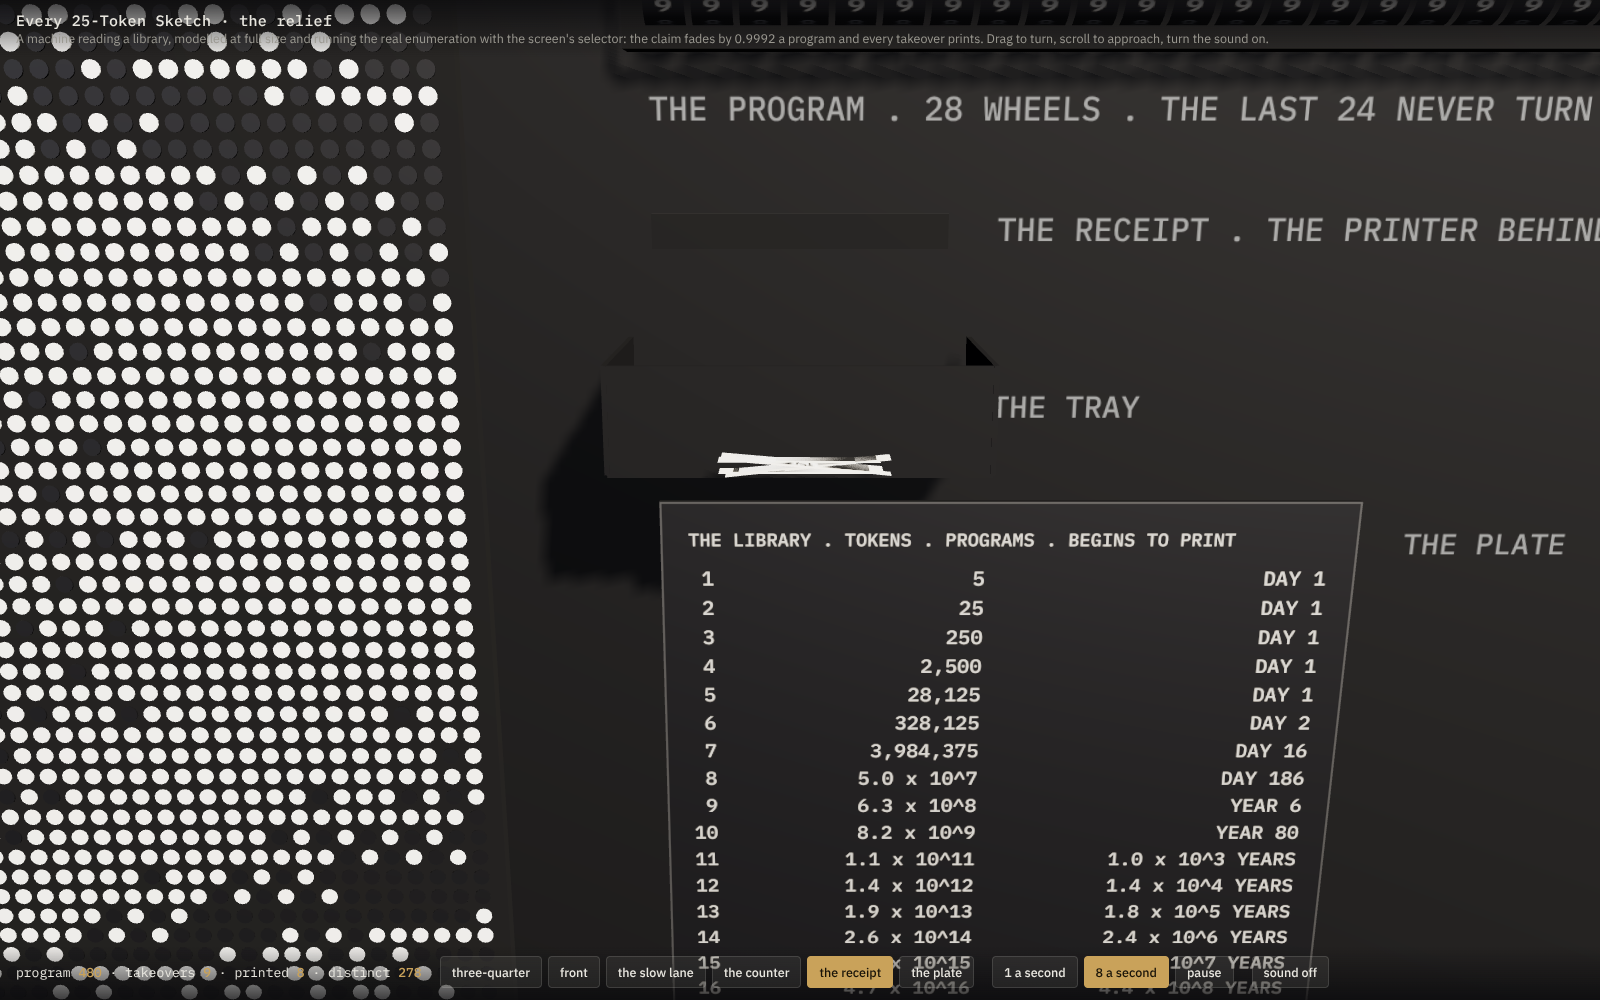
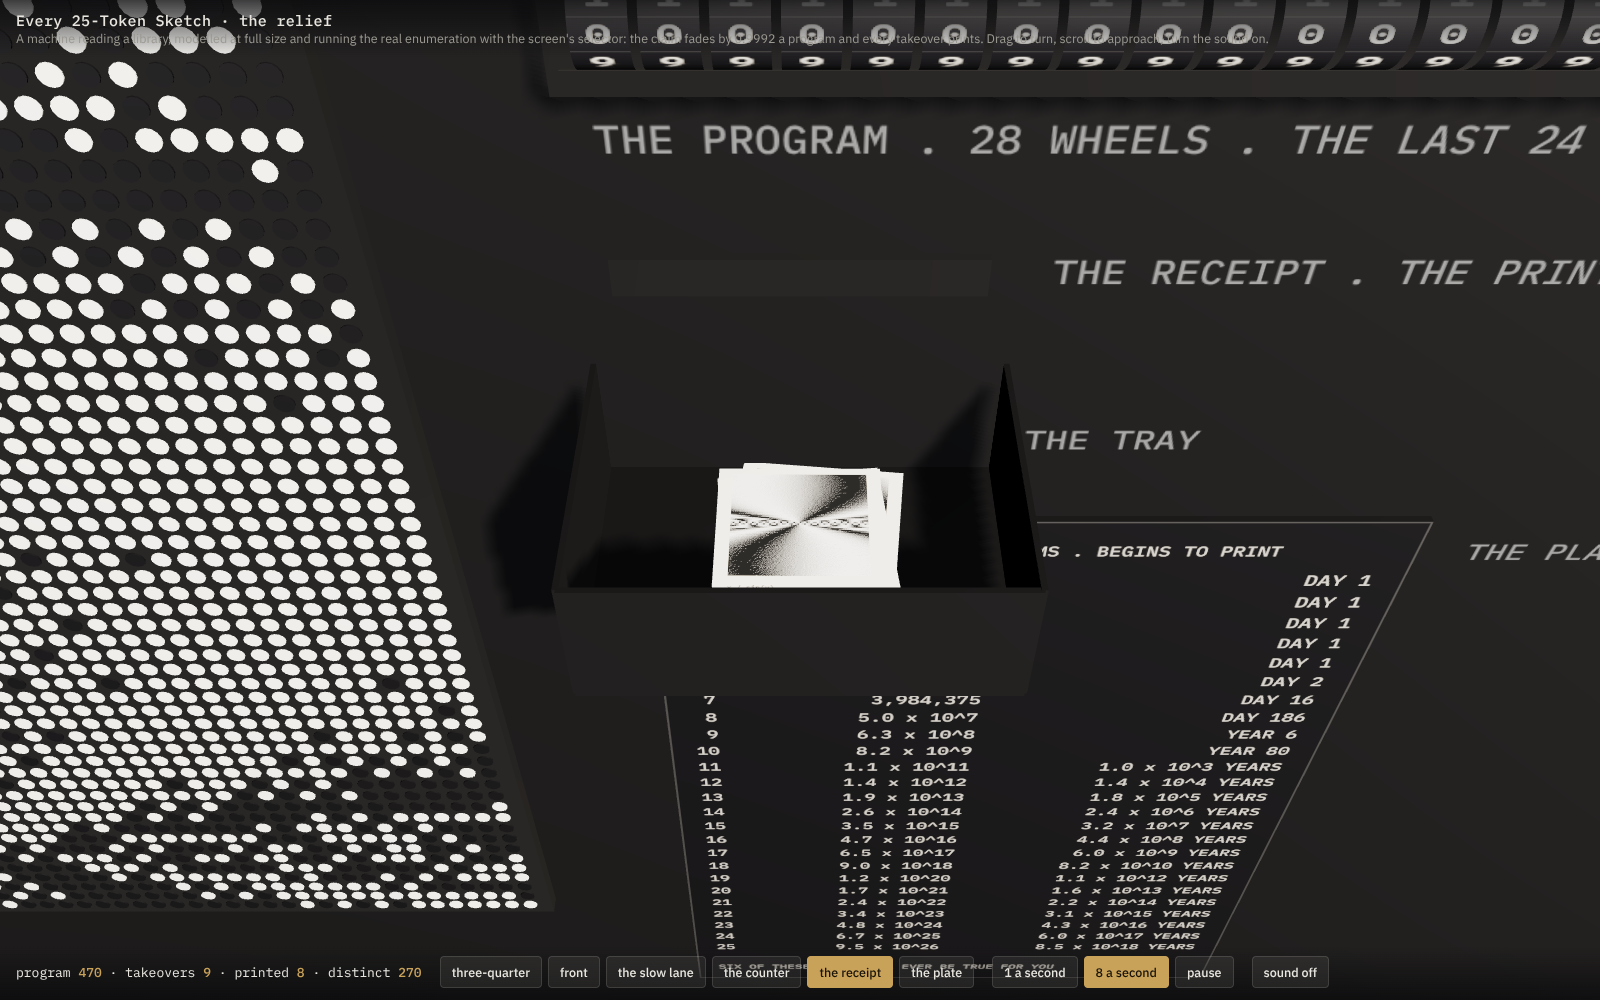
045 model: the ticket hangs as the printer feeds it and lands face up in a deeper tray
The tray is 140 × 100 × 50 mm, deep enough for a 90.75 mm ticket to lie flat. The ticket
leaves the slot first line first, so it hangs picture lowest; cut, it tips forward and lands
face up, picture toward whoever stands in front, each on the one before with a little yaw.
The receipt view looks down into the tray. DESIGN.md and BUILD.md carry the tray's size.

Claude-Session: https://claude.ai/code/session_01FhnofTHF49yv2QouZWRnps

diff --git a/projects/045-every-25-token-sketch/relief/model.html b/projects/045-every-25-token-sketch/relief/model.html
@@ -530,7 +530,7 @@ const controls = new OrbitControls(camera, canvas); controls.enableDamping = tru
 // world space: the panel face spans x −1 … 1, y 0.9 … 2.4; the lane centre is (−0.64, 1.70), the counter (0, 1.925), the shelves (1.4, 0.75)
 const VIEWS = [
   { p: [2.9, 1.9, 4.2], t: [0.55, 1.45, 0] }, { p: [0.5, 1.65, 4.6], t: [0.5, 1.55, 0] },
-  { p: [-0.5, 1.78, 1.25], t: [-0.64, 1.70, 0.08] }, { p: [0.12, 1.98, 0.78], t: [0.0, 1.92, 0.08] }, { p: [-0.22, 1.86, 0.62], t: [-0.22, 1.72, 0.08] }, { p: [-0.13, 1.54, 0.74], t: [-0.13, 1.52, 0.05] },
+  { p: [-0.5, 1.78, 1.25], t: [-0.64, 1.70, 0.08] }, { p: [0.12, 1.98, 0.78], t: [0.0, 1.92, 0.08] }, { p: [-0.22, 2.08, 0.42], t: [-0.22, 1.77, 0.12] }, { p: [-0.13, 1.54, 0.74], t: [-0.13, 1.52, 0.05] },
 ];
 let viewFrom = null, viewTo = null, viewT = 1;
 function goView(i) { viewFrom = { p: camera.position.clone(), t: controls.target.clone() }; viewTo = { p: new THREE.Vector3(...VIEWS[i].p), t: new THREE.Vector3(...VIEWS[i].t) }; viewT = 0; for (let j = 0; j < 6; j++) document.getElementById('v' + j).setAttribute('aria-pressed', String(j === i)); }
@@ -616,7 +616,7 @@ label(720, 520, 'THE PROGRAM . 28 WHEELS . THE LAST 24 NEVER TURN', 13, 'left', 
 box(720, 560, 120, 14, 0.006, recess, 0.0005);
 label(860, 567, 'THE RECEIPT . THE PRINTER BEHIND THE PANEL, CUTTING . TAKE THE TICKET', 13, 'left', 1200);
 const tray = new THREE.Group(); scene.add(tray);
-{ const tp = mm(780, 630, 0.0); const wallT = 0.002, tw = 0.14, td = 0.08, th = 0.04;
+{ const tp = mm(780, 630, 0.0); const wallT = 0.002, tw = 0.14, td = 0.10, th = 0.05;   // 140 wide, 100 deep, 50 high: a 90.75 mm ticket lies flat in it
   const mk = (w, h, d, x, y, z) => { const m = new THREE.Mesh(new THREE.BoxGeometry(w, h, d), steel); m.position.set(x, y, z); m.castShadow = true; m.receiveShadow = true; tray.add(m); };
   mk(tw, wallT, td, tp.x, tp.y - th / 2, tp.z + td / 2);                                   // floor
   mk(wallT, th, td, tp.x - tw / 2, tp.y, tp.z + td / 2); mk(wallT, th, td, tp.x + tw / 2, tp.y, tp.z + td / 2);   // sides
@@ -654,18 +654,24 @@ const tickets = [];                                                  // { mesh, 
 const ticketGeom = new THREE.PlaneGeometry(0.058, TICKET_H / DPM / 1000);
 function printTicket(f, no, now) {
   const m = new THREE.Mesh(ticketGeom, new THREE.MeshStandardMaterial({ map: ticketTexture(f, no), roughness: 0.9, side: THREE.DoubleSide }));
-  m.castShadow = true; m.position.set(slotP.x, slotP.y - 0.045, slotP.z + 0.004); m.rotation.set(0.06, 0, 0); scene.add(m);
-  tickets.push({ mesh: m, k: f.k, born: now, inTray: false, slot: tickets.length });
+  m.castShadow = true; m.position.copy(HANG_P); m.quaternion.copy(HANG_Q); scene.add(m);
+  const yaw = Math.sin(f.k * 3) * 0.12, restQ = new THREE.Quaternion().setFromEuler(new THREE.Euler(0, yaw, 0)).multiply(new THREE.Quaternion().setFromAxisAngle(new THREE.Vector3(1, 0, 0), -Math.PI / 2));
+  tickets.push({ mesh: m, k: f.k, born: now, inTray: false, restQ, dx: Math.sin(f.k * 7) * 0.004, dz: Math.sin(f.k) * 0.004 });
   while (tickets.length > 24) { const old = tickets.shift(); scene.remove(old.mesh); old.mesh.material.map.dispose(); old.mesh.material.dispose(); }
 }
+// the ticket leaves the slot as the printer feeds it, first line first, so it hangs with its
+// picture lowest and its last line at the slot; cut, it tips forward and lands face up in the
+// tray, its picture toward whoever stands in front, each on the one before with a little yaw
+const HANG_P = new THREE.Vector3(slotP.x, slotP.y - 0.045, slotP.z + 0.004);
+const HANG_Q = new THREE.Quaternion().setFromEuler(new THREE.Euler(0.06, 0, Math.PI));
+const TRAY_FLOOR = trayP.y - 0.025 + 0.0015, TRAY_MID = trayP.z + 0.05;
 function animateTickets(now) {                                       // hang from the slot for 2 s, then fall into the tray and lie in a loose stack
   tickets.forEach((t, i) => {
     const age = now - t.born; if (age < 2) return;
     const u = Math.min(1, (age - 2) / 0.6), e = u * u;
-    const n = tickets.length - 1 - i;                                // 0 = newest, on top
-    const restY = trayP.y - 0.02 + 0.003 + 0.0008 * (tickets.length - 1 - n), restZ = trayP.z + 0.045 + Math.sin(t.k) * 0.004;
-    t.mesh.position.set(slotP.x + Math.sin(t.k * 7) * 0.004, slotP.y - 0.045 + (restY - (slotP.y - 0.045)) * e, slotP.z + 0.004 + (restZ - (slotP.z + 0.004)) * e);
-    t.mesh.rotation.set(0.06 + (Math.PI / 2 - 0.06) * e, (Math.sin(t.k * 3) * 0.12) * e, 0);
+    const restY = TRAY_FLOOR + 0.0008 * i, restZ = TRAY_MID + t.dz;   // i = oldest first, at the bottom
+    t.mesh.position.set(HANG_P.x + t.dx * e, HANG_P.y + (restY - HANG_P.y) * e, HANG_P.z + (restZ - HANG_P.z) * e);
+    t.mesh.quaternion.slerpQuaternions(HANG_Q, t.restQ, e);
     if (u >= 1) t.inTray = true;
   });
 }

diff --git a/projects/045-every-25-token-sketch/relief/DESIGN.md b/projects/045-every-25-token-sketch/relief/DESIGN.md
@@ -26,7 +26,7 @@ simulator (`simulator.html`) runs both; `?tiles=25` shows the rejected layout.
 | the conveyor | five flip-dot fields of 28 × 28 dots, the last five programs, oldest left, one new program a second; thresholded | five × 280 × 280 mm at 10 mm pitch, 20 mm apart |
 | the slow lane | one flip-dot field of 56 × 56 dots, the champion, dithered; changes hands when a better unrepeated picture arrives, its claim fading by 0.9999 a program | 560 × 560 mm |
 | the program | 28 electromechanical digit wheels showing the program number with leading zeros; the last 24 wheels never turn | 504 × 30 mm |
-| the receipt | the stage-2 printer behind the panel, its slot in the face, a steel tray beneath; the printer cuts, the ticket drops, whoever is there takes it | 58 mm slot, 120 × 80 × 40 mm tray |
+| the receipt | the stage-2 printer behind the panel, its slot in the face, a steel tray beneath; the printer cuts, the ticket drops, whoever is there takes it | 58 mm slot, 140 × 100 × 50 mm tray |
 | the plate | engraved steel beside the slot: the 25 lengths, their counts, the day or year each begins to print | 300 × 400 mm |
 | the library | a brass bar engraved with the 25 shelves on a log scale, a pointer on a lead screw at the current program; it advances by a hair a day and sits at the far left for all time | 1840 mm travel |
 | engraving | the element names, in the panel's own voice: "THE CONVEYOR . THE LAST FIVE PROGRAMS, ONE A SECOND", "THE PROGRAM . 28 WHEELS . THE LAST 24 NEVER TURN" | 13 pt, filled white |
@@ -102,7 +102,7 @@ Six lines of the plate will ever be true for a visitor. The rest are the point.
 | ruler | 1 | brass bar 1840 × 12 mm, engraved; lead screw, stepper, limit switch | mid |
 | controller | 1 | Linux box with Node, an RS-485 adapter, a stepper board | low |
 | panel | 1 | folded 2 mm steel, 2000 × 1500 mm, black, with cut-outs and a rear frame; wall-hung on a French cleat; about 60 kg with modules | mid |
-| plate and tray | 1 each | engraved 3 mm steel plate 300 × 400 mm; folded steel tray 120 × 80 × 40 mm | low |
+| plate and tray | 1 each | engraved 3 mm steel plate 300 × 400 mm; folded steel tray 140 × 100 × 50 mm, deep enough for a ticket to lie flat | low |
 | power | 1 | 24 V for the modules, 24 V for the printer, 12 V for the steppers, one mains cable | low |
 
 The module count is the budget. Halving the conveyor to three tiles saves eight modules and

diff --git a/projects/045-every-25-token-sketch/receipt/BUILD.md b/projects/045-every-25-token-sketch/receipt/BUILD.md
@@ -56,7 +56,7 @@ swap the USB cable and the roll, ten minutes, no repair.
 | spare printer | the same model | low | the service plan |
 | controller | Raspberry Pi 4, Node 18+, `receipt.js` as a systemd service with `Restart=always` | low | no moving parts; a reboot resumes at the right program from the clock |
 | paper | 58 mm thermal rolls, 80 m, top-coated archival grade (fade-resistant), phenol-free | low | one roll about two months; keep four; a day's run on a new paper first, thermal stocks differ |
-| tray | a folded steel tray under the slot, 120 × 80 × 40 mm, open to the front | low | the ticket drops into it; whoever is there takes it |
+| tray | a folded steel tray under the slot, 140 × 100 × 50 mm, open to the front, deep enough for a 90.75 mm ticket to lie flat | low | the ticket drops into it; whoever is there takes it |
 | power | the printer's own 24 V supply, 5 V for the controller, one cable to the wall | low | |
 
 Nothing else. No display, no keyboard, no network needed except for a network printer.
